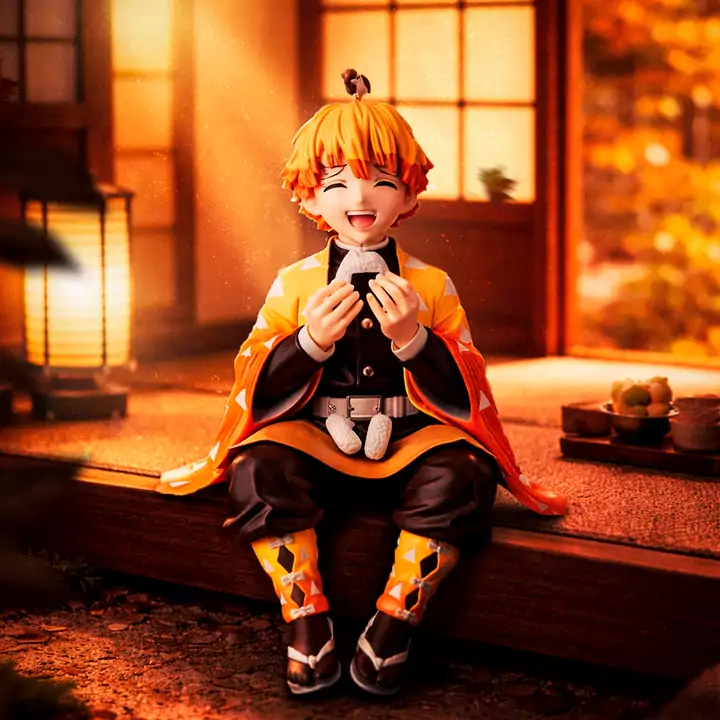
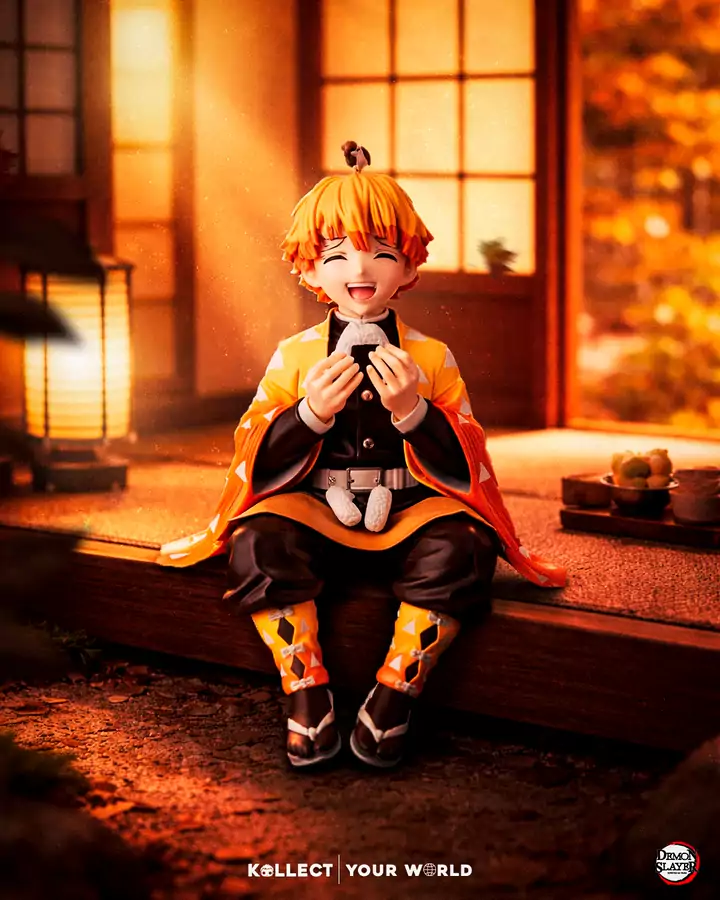
Kollect: fotos inteiras num quadro 4:5 que nasce do globo
- O globo se desenha, a grade some e o círculo se abre num quadro 4:5 no mesmo
  lugar; as fotos passam inteiras dentro dele (sem recorte, sem grade, sem zoom);
  no fim o quadro volta a ser globo.
- Fotos regeradas inteiras em 4:5 (720x900, ~75 KB cada).
- Cantos animados juntos por variável CSS (sem deformar na transição).

diff --git a/src/ads/kollect/cinematicTimeline.js b/src/ads/kollect/cinematicTimeline.js
@@ -4,26 +4,29 @@ import { GLOBE_R, MERIDIAN_PHASES, meridianRx } from "./AdScene";
 const RIM = 2 * Math.PI * GLOBE_R + 1; // comprimento do contorno, para o traço se desenhar
 
 // Timeline única, em "segundos de roteiro" (volta de 13 s); timeScale ajusta.
-// O globo não muda de tamanho em nenhum momento (sem zoom): só desliza devagar.
+// Sem zoom em nenhum momento.
 //
-//  0.0–3.0  REVELAÇÃO   o contorno do globo se desenha e a grade/fotos aparecem;
-//                       KOLLECT / YOUR WORLD nascem das máscaras (marca legível antes de 2 s).
-//  3.0–12.0 UNIVERSO    o padrão da marca aparece e corre; o globo desliza de leve
-//                       para o lado e volta; as fotos passam dentro dele.
-// 12.0–13.0 a assinatura sai, o globo se desfaz, fade para preto: a volta
+//  0.0–2.5  REVELAÇÃO  o contorno do globo se desenha e a grade aparece;
+//                      KOLLECT / YOUR WORLD nascem das máscaras (marca legível antes de 2 s).
+//  2.5–3.5  O GLOBO VIRA QUADRO  a grade some e o círculo se abre no quadro 4:5.
+//  3.5–11.3 AS FOTOS   passam inteiras dentro do quadro; o padrão da marca corre ao fundo.
+// 11.3–13.0 o quadro volta a ser globo, o globo se desfaz, fade para preto: a volta
 //           seguinte começa exatamente desse estado, sem corte.
+// Sem fotos na pasta, não há quadro: o globo fica na tela o tempo todo.
 export const BASE_DURATION = 13;
 
 export function buildKollectTimeline(root, { duration = BASE_DURATION, loop = true, speed = 1 } = {}) {
   const q = gsap.utils.selector(root);
   const tl = gsap.timeline({ repeat: loop ? -1 : 0, defaults: { ease: "power3.out" } });
   const lines = q(".k-mask img");
+  const frame = q(".k-frame")[0];
+  const orb = q(".k-orb")[0];
 
   // Estado inicial de cada volta.
   tl.set(q(".k-fade"), { autoAlpha: 1 }, 0)
-    .set(q(".k-orb"), { xPercent: 0 }, 0)
+    .set(q(".k-orb"), { autoAlpha: 1 }, 0)
     .set(q(".k-globe__rim"), { strokeDasharray: RIM, strokeDashoffset: RIM }, 0)
-    .set([q(".k-globe__grid"), q(".k-gallery")], { autoAlpha: 0 }, 0)
+    .set(q(".k-globe__grid"), { autoAlpha: 0 }, 0)
     .set(lines, { yPercent: 105 }, 0)
     .set(q(".k-credit"), { autoAlpha: 0 }, 0)
     .set([q(".k-pattern"), q(".k-kana")], { autoAlpha: 0 }, 0);
@@ -31,22 +34,41 @@ export function buildKollectTimeline(root, { duration = BASE_DURATION, loop = tr
   // REVELAÇÃO
   tl.to(q(".k-fade"), { autoAlpha: 0, duration: 0.7, ease: "power1.out" }, 0)
     .to(q(".k-globe__rim"), { strokeDashoffset: 0, duration: 1.7, ease: "power2.inOut" }, 0.15)
-    .to([q(".k-globe__grid"), q(".k-gallery")], { autoAlpha: 1, duration: 1.1, ease: "power1.inOut" }, 1.0)
+    .to(q(".k-globe__grid"), { autoAlpha: 1, duration: 1.0, ease: "power1.inOut" }, 0.9)
     .to(lines[0], { yPercent: 0, duration: 0.9, ease: "power4.out" }, 1.05)
     .to(lines[1], { yPercent: 0, duration: 0.9, ease: "power4.out" }, 1.4)
     .to(q(".k-kana"), { autoAlpha: 1, duration: 0.8, ease: "power1.out" }, 2.5)
-    .to(q(".k-credit"), { autoAlpha: 1, duration: 0.6, ease: "power1.out" }, 2.6);
+    .to(q(".k-credit"), { autoAlpha: 1, duration: 0.6, ease: "power1.out" }, 2.6)
+    .to(q(".k-pattern"), { autoAlpha: 1, duration: 1.4, ease: "power1.inOut" }, 3.0);
 
-  // UNIVERSO
-  tl.to(q(".k-pattern"), { autoAlpha: 1, duration: 1.4, ease: "power1.inOut" }, 3.0)
-    .to(q(".k-orb"), { xPercent: 3, duration: 4.5, ease: "sine.inOut" }, 3.0)
-    .to(q(".k-orb"), { xPercent: 0, duration: 4.5, ease: "sine.inOut" }, 7.5);
+  if (frame && orb) {
+    // O quadro começa exatamente do tamanho do globo, em círculo, e se abre em 4:5.
+    const fw = frame.clientWidth;
+    const fh = frame.clientHeight;
+    const d = orb.clientWidth;
+    // Os 4 cantos arredondam juntos (variáveis --frx/--fry no CSS).
+    const asCircle = { scaleX: d / fw, scaleY: d / fh, "--frx": `${fw / 2}px`, "--fry": `${fh / 2}px` };
+    const asFrame = { scaleX: 1, scaleY: 1, "--frx": "6px", "--fry": "6px" };
+
+    tl.set(q(".k-frame"), { autoAlpha: 0, ...asCircle }, 0)
+      .set(q(".k-gallery"), { autoAlpha: 0 }, 0)
+      .to(q(".k-globe__grid"), { autoAlpha: 0, duration: 0.4, ease: "power1.in" }, 2.2)
+      .set(q(".k-frame"), { autoAlpha: 1 }, 2.5)
+      .to(q(".k-orb"), { autoAlpha: 0, duration: 0.25 }, 2.55)
+      .to(q(".k-frame"), { ...asFrame, duration: 0.9, ease: "power3.inOut" }, 2.6)
+      .to(q(".k-gallery"), { autoAlpha: 1, duration: 0.5, ease: "power1.out" }, 3.3)
+      // volta a ser globo
+      .to(q(".k-gallery"), { autoAlpha: 0, duration: 0.35, ease: "power1.in" }, 11.3)
+      .to(q(".k-frame"), { ...asCircle, duration: 0.8, ease: "power3.inOut" }, 11.5)
+      .set(q(".k-orb"), { autoAlpha: 1 }, 12.3)
+      .set(q(".k-frame"), { autoAlpha: 0 }, 12.32);
+  }
 
   // Fecha a volta
   tl.to(lines, { yPercent: -105, duration: 0.5, ease: "power2.in", stagger: 0.06 }, 12.05)
     .to(q(".k-credit"), { autoAlpha: 0, duration: 0.3 }, 12.05)
-    .to([q(".k-pattern"), q(".k-kana"), q(".k-globe__grid"), q(".k-gallery")], { autoAlpha: 0, duration: 0.5 }, 12.1)
-    .to(q(".k-globe__rim"), { strokeDashoffset: -RIM, duration: 0.8, ease: "power2.in" }, 12.1)
+    .to([q(".k-pattern"), q(".k-kana"), q(".k-globe__grid")], { autoAlpha: 0, duration: 0.5 }, 12.1)
+    .to(q(".k-globe__rim"), { strokeDashoffset: -RIM, duration: 0.6, ease: "power2.in" }, 12.35)
     .to(q(".k-fade"), { autoAlpha: 1, duration: 0.5, ease: "power1.in" }, BASE_DURATION - 0.5);
 
   tl.timeScale((BASE_DURATION / Math.max(duration, 4)) * speed);
@@ -69,7 +91,7 @@ export function startAmbient(root) {
       { x: dir < 0 ? -tile : 0, duration: 16 + (i % 3) * 4, ease: "none", repeat: -1 }
     );
   });
-  // Fotos passando dentro do globo, da direita para a esquerda (o sentido do giro).
+  // Fotos passando dentro do quadro, da direita para a esquerda.
   const photos = q(".k-gallery__img");
   if (photos.length > 1) {
     const STEP = 2.4; // tempo de cada foto na tela
@@ -79,11 +101,11 @@ export function startAmbient(root) {
       reel
         .fromTo(
           img,
-          { xPercent: 45, autoAlpha: 0, scale: 1.08 },
-          { xPercent: 0, autoAlpha: 1, scale: 1, duration: 0.9, ease: "power3.out" },
+          { xPercent: 35, autoAlpha: 0 },
+          { xPercent: 0, autoAlpha: 1, duration: 0.9, ease: "power3.out" },
           at
         )
-        .to(img, { xPercent: -45, autoAlpha: 0, scale: 0.96, duration: 0.9, ease: "power2.in" }, at + STEP - 0.45);
+        .to(img, { xPercent: -35, autoAlpha: 0, duration: 0.9, ease: "power2.in" }, at + STEP - 0.45);
     });
     // Em 13 s cabem ~5 fotos: cada visita começa numa foto sorteada, para todas
     // aparecerem ao longo do dia.

diff --git a/src/ads/kollect/styles.css b/src/ads/kollect/styles.css
@@ -20,6 +20,7 @@
   --D: min(calc(var(--kw) * 108), calc(var(--kh) * 52)); /* diâmetro do globo */
   --cx: calc(var(--kw) * 50); /* centro do globo */
   --cy: calc(var(--kh) * 34);
+  --FW: min(calc(var(--kw) * 88), calc(var(--kh) * 46)); /* largura do quadro das fotos */
 
   position: absolute;
   inset: 0;
@@ -126,16 +127,28 @@
   stroke-opacity: 0.36;
 }
 
-/* ---------- Fotos dentro do globo ---------- */
-.k-gallery {
+/* ---------- Quadro das fotos (4:5, no lugar do globo) ---------- */
+.k-frame {
   position: absolute;
-  z-index: 0;
-  inset: 2%;
-  border-radius: 50%;
+  z-index: 2;
+  left: calc(var(--cx) - var(--FW) / 2);
+  top: calc(var(--cy) - var(--FW) * 0.625);
+  width: var(--FW);
+  height: calc(var(--FW) * 1.25);
+  border-radius: var(--frx, 6px) / var(--fry, 6px);
   overflow: hidden;
   background: var(--k-ground);
-  transform: translateZ(0); /* recorte circular estável no Safari */
-  will-change: transform, opacity;
+  box-shadow:
+    0 0 0 2px rgba(243, 241, 236, 0.92),
+    0 30px 80px rgba(0, 0, 0, 0.55);
+  will-change: transform;
+}
+
+.k-gallery {
+  position: absolute;
+  inset: 0;
+  overflow: hidden;
+  border-radius: inherit;
 }
 
 .k-gallery__img {
@@ -148,32 +161,14 @@
   will-change: transform, opacity;
 }
 
-/* Sem animação, fica a primeira foto. */
+/* Sem animação, fica a primeira foto no quadro (e o globo some). */
 .k-gallery__img:first-child {
   opacity: 1;
 }
 
-/* Sombra nas bordas: a foto ganha volume de esfera. */
-.k-gallery__shade {
-  position: absolute;
-  inset: 0;
-  border-radius: 50%;
-  background: radial-gradient(circle at 38% 32%, transparent 45%, rgba(0, 0, 0, 0.55) 100%);
-  pointer-events: none;
-}
-
-/* Com fotos, o globo fica vazado (sem corpo sólido) e a grade mais discreta. */
-.has-photos .k-globe__body,
-.has-photos .k-globe circle[fill^="url"] {
-  display: none;
-}
-
-.has-photos .k-globe__mer {
-  stroke-opacity: 0.32;
-}
-
-.has-photos .k-globe__lat {
-  stroke-opacity: 0.24;
+.has-photos .k-orb {
+  opacity: 0;
+  visibility: hidden;
 }
 
 /* ---------- Katakana vertical ---------- */
@@ -293,6 +288,7 @@
     --D: calc(var(--kh) * 78);
     --cx: calc(var(--kw) * 69);
     --cy: calc(var(--kh) * 46);
+    --FW: calc(var(--kh) * 64);
   }
 
   .k-pattern__row {
@@ -326,6 +322,7 @@
 @media (max-height: 740px) and (max-aspect-ratio: 1/1) {
   .k-ad {
     --cy: calc(var(--kh) * 32);
+    --FW: min(calc(var(--kw) * 88), calc(var(--kh) * 40));
   }
 
   .k-sign {
@@ -348,6 +345,7 @@
     --D: calc(var(--kh) * 74);
     --cx: calc(var(--kw) * 68);
     --cy: calc(var(--kh) * 42);
+    --FW: calc(var(--kh) * 58);
   }
 
   .k-sign {

diff --git a/src/ads/kollect/CinematicAd.jsx b/src/ads/kollect/CinematicAd.jsx
@@ -1,6 +1,6 @@
 import { useLayoutEffect, useRef } from "react";
 import { useAdTimeline } from "../useAdTimeline";
-import { Globe, GlobeGallery } from "./AdScene";
+import { Globe, PhotoReel } from "./AdScene";
 import BrandLogo from "./BrandLogo";
 import AdCTA from "./AdCTA";
 import { kollectConfig } from "./config";
@@ -10,6 +10,7 @@ import "./styles.css";
 const PATTERN_ROWS = 10;
 
 // "KOLLECT YOUR WORLD": um plano-sequência numa única viewport.
+// O globo se desenha, vira o quadro das fotos (4:5) e no fim volta a ser globo.
 // Revelação (o globo se desenha) -> Universo (o padrão da marca ganha vida)
 // -> KOLLECT YOUR WORLD (key visual). Sem zoom: o globo mantém o tamanho.
 // O CSS sozinho já desenha o key visual final: é o fallback estático.
@@ -63,9 +64,13 @@ export default function CinematicAd({ active = true, duration, reduced = false, 
 
       <div className="k-stage">
         <div className="k-orb">
-          <GlobeGallery photos={assets.photos} />
           <Globe />
         </div>
+        {assets.photos?.length ? (
+          <div className="k-frame">
+            <PhotoReel photos={assets.photos} />
+          </div>
+        ) : null}
       </div>
 
       <p className="k-kana" lang="ja" aria-hidden="true">

diff --git a/src/ads/kollect/AdScene.jsx b/src/ads/kollect/AdScene.jsx
@@ -10,15 +10,14 @@ export function meridianRx(phase) {
   return Math.max(0.5, GLOBE_R * Math.abs(Math.cos(phase)));
 }
 
-// Fotos dos produtos passando dentro do globo (recorte circular, por baixo da grade).
-export function GlobeGallery({ photos }) {
+// Fotos dos produtos, inteiras (4:5), passando dentro do quadro.
+export function PhotoReel({ photos }) {
   if (!photos?.length) return null;
   return (
     <div className="k-gallery" aria-hidden="true">
       {photos.map((src, i) => (
         <img key={src} className="k-gallery__img" src={src} alt="" decoding="async" loading={i < 2 ? "eager" : "lazy"} />
       ))}
-      <span className="k-gallery__shade" />
     </div>
   );
 }

diff --git a/src/ads/assets/kollect-fotos/LEIA-ME.md b/src/ads/assets/kollect-fotos/LEIA-ME.md
@@ -1,16 +1,17 @@
 # Fotos do anúncio da Kollect
 
-As imagens desta pasta (`.webp`, `.jpg`, `.jpeg`, `.png` ou `.avif`) passam dentro
-do globo, em ordem de nome. Cada visitante começa numa foto sorteada.
+As imagens desta pasta (`.webp`, `.jpg`, `.jpeg`, `.png` ou `.avif`) passam inteiras
+dentro do quadro 4:5 do anúncio (o globo se transforma nele), em ordem de nome.
+Cada visitante começa numa foto sorteada.
 
 - `originais/`: as fotos como vieram (não vão para o anúncio nem para o Git).
 - `01.webp`, `02.webp`…: as versões otimizadas que o anúncio usa
-  (recorte quadrado um pouco acima do centro, 720 px, ~60 KB cada).
+  (foto inteira em 4:5, 720 x 900 px, ~75 KB cada).
 
 Para trocar ou adicionar fotos: coloque o original em `originais/` e gere a versão
 otimizada aqui com o mesmo nome:
 
-    ffmpeg -i originais/10.jpg -vf "crop=iw:iw:0:ih*0.08,scale=720:720:flags=lanczos" -c:v libwebp -q:v 62 10.webp
+    ffmpeg -i originais/10.jpg -vf "scale=720:900:flags=lanczos" -c:v libwebp -q:v 62 10.webp
 
-Depois rode o build (`npm run build`). Produto no centro da foto funciona melhor:
-o globo recorta em círculo.
+Depois rode o build (`npm run build`). Use fotos em 4:5 (como posts do Instagram,
+1080 x 1350); em outro formato, as bordas são cortadas para caber no quadro.
